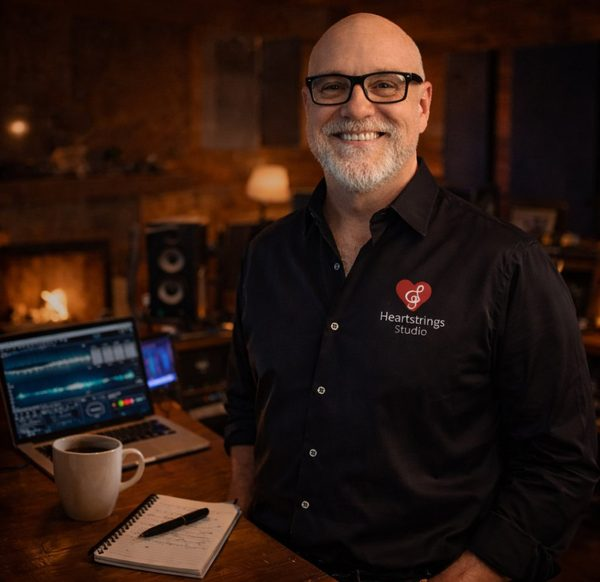
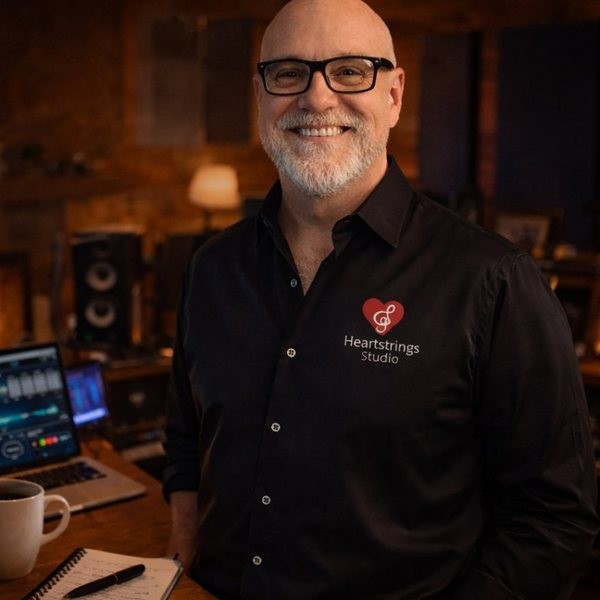
Recenter Tim's bio photo
The Meet Tim photo read as off-center — Tim stood right-of-center with the desk
and laptop filling the left of the frame. Recrop the high-res original to a
square that centers Tim with comfortable headroom (keeping the studio context),
and update the image dimensions to the new 600x600 square ratio.

diff --git a/index.html b/index.html
@@ -2223,7 +2223,7 @@ body {
   <div class="reveal" style="max-width:860px; margin:0 auto;">
     <div class="bio-wrap">
       <div class="bio-img">
-        <img id="timPhoto" src="https://heartstringsstudio.github.io/heartstringsstudio/timphoto.jpg" alt="Tim Harbert, founder of Heartstrings Studio" loading="lazy" width="600" height="582">
+        <img id="timPhoto" src="https://heartstringsstudio.github.io/heartstringsstudio/timphoto.jpg" alt="Tim Harbert, founder of Heartstrings Studio" loading="lazy" width="600" height="600">
         <p class="bio-caption">Tim Harbert<br>Founder, Heartstrings Studio</p>
       </div>
       <div class="bio-text">
